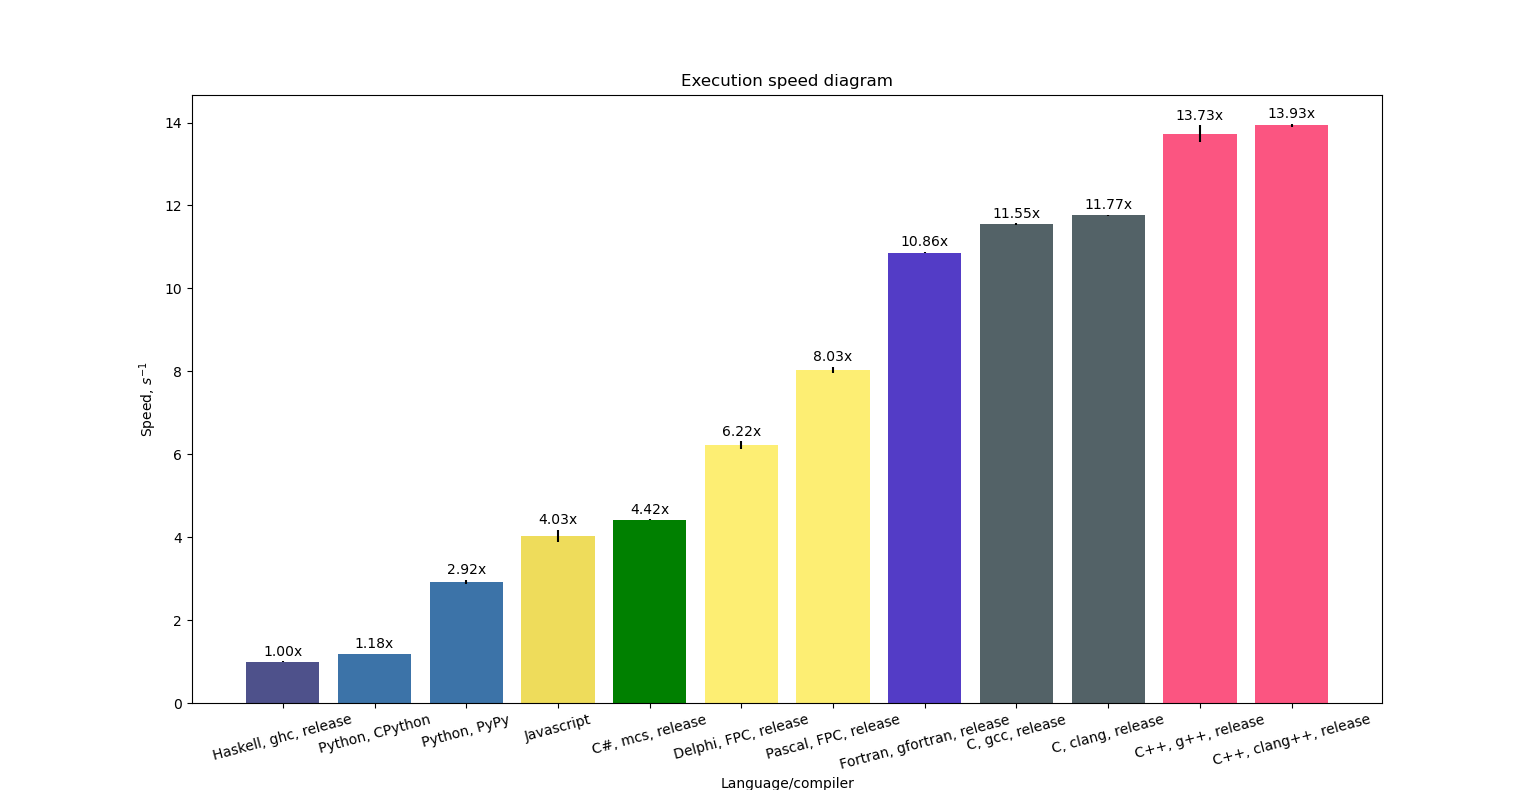
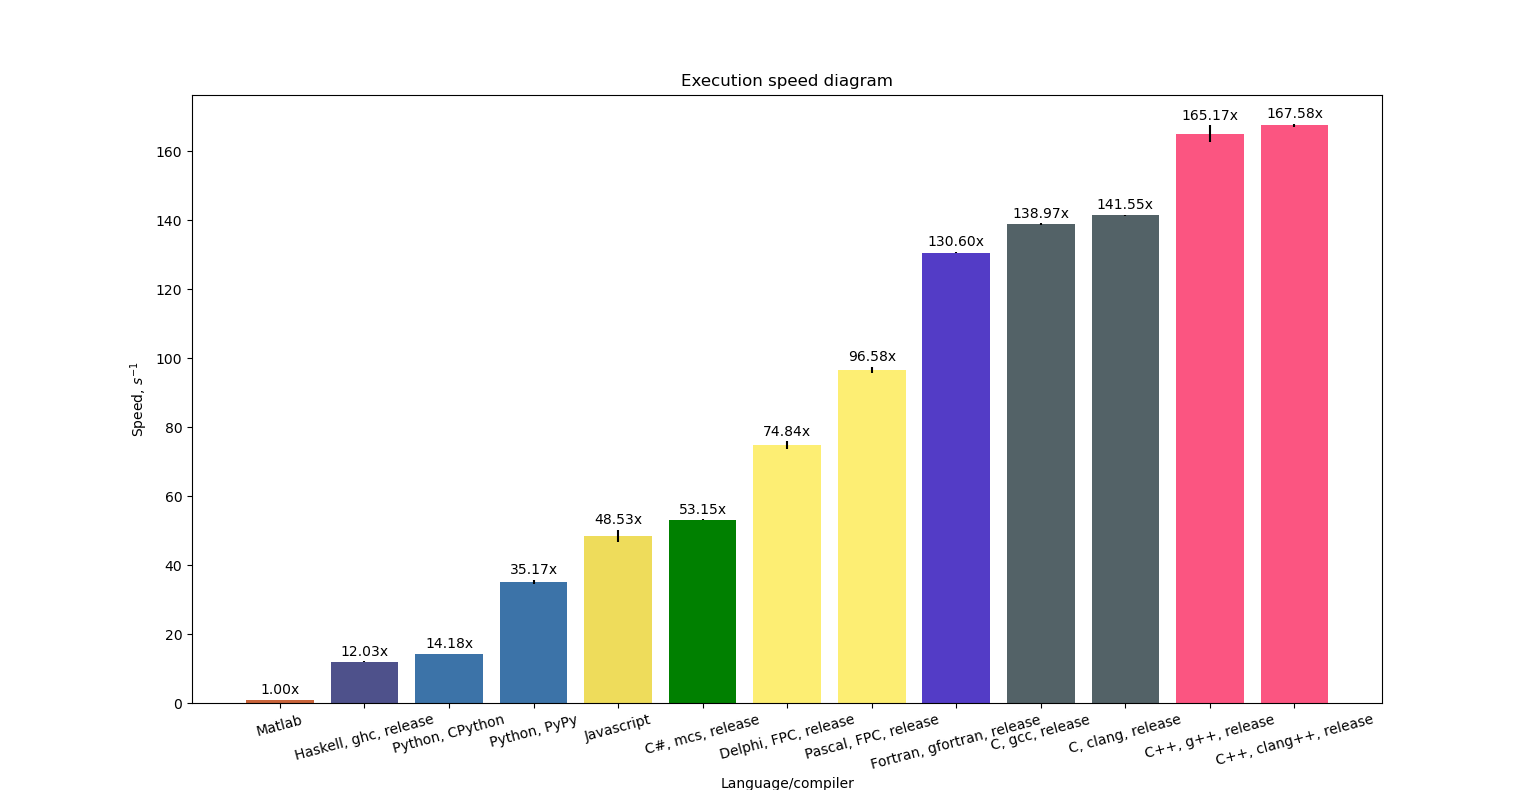
Data of non-present programs is now displayed

diff --git a/script/create_graphics.py b/script/create_graphics.py
@@ -105,64 +105,76 @@ class Graphics:
 
     def run(self):
         label_to_filename = dict()
-        if shutil.which("g++"): label_to_filename.update({
-            "C++, g++, debug" : "dijkstra_cpp_gcc_debug.txt",
-            "C++, g++, release" : "dijkstra_cpp_gcc_release.txt"
+        gpp_present = bool(shutil.which("g++"))
+        label_to_filename.update({
+            "C++, g++, debug" : ("dijkstra_cpp_gcc_debug.txt", gpp_present),
+            "C++, g++, release" : ("dijkstra_cpp_gcc_release.txt", gpp_present)
         })
-        if shutil.which("clang++"): label_to_filename.update({
-            "C++, clang++, debug" : "dijkstra_cpp_clang_debug.txt",
-            "C++, clang++, release" : "dijkstra_cpp_clang_release.txt",
+        clangpp_present = bool(shutil.which("clang++"))
+        label_to_filename.update({
+            "C++, clang++, debug" : ("dijkstra_cpp_clang_debug.txt", clangpp_present),
+            "C++, clang++, release" : ("dijkstra_cpp_clang_release.txt", clangpp_present),
         })
-        if shutil.which("gcc"): label_to_filename.update({
-            "C, gcc, debug" : "dijkstra_c_gcc_debug.txt",
-            "C, gcc, release" : "dijkstra_c_gcc_release.txt",
+        gcc_present = bool(shutil.which("gcc"))
+        label_to_filename.update({
+            "C, gcc, debug" : ("dijkstra_c_gcc_debug.txt", gcc_present),
+            "C, gcc, release" : ("dijkstra_c_gcc_release.txt", gcc_present),
         })
-        if shutil.which("clang"): label_to_filename.update({
-            "C, clang, debug" : "dijkstra_c_clang_debug.txt",
-            "C, clang, release" : "dijkstra_c_clang_release.txt",
+        clang_present = bool(shutil.which("clang"))
+        label_to_filename.update({
+            "C, clang, debug" : ("dijkstra_c_clang_debug.txt", clang_present),
+            "C, clang, release" : ("dijkstra_c_clang_release.txt", clang_present),
         })
-        if shutil.which("mcs"): label_to_filename.update({
-            "C#, mcs, debug" : "dijkstra_csharp_mcs_debug.txt",
-            "C#, mcs, release" : "dijkstra_csharp_mcs_release.txt",
+        mcs_present = bool(shutil.which("mcs"))
+        label_to_filename.update({
+            "C#, mcs, debug" : ("dijkstra_csharp_mcs_debug.txt", mcs_present),
+            "C#, mcs, release" : ("dijkstra_csharp_mcs_release.txt", mcs_present),
         })
-        if shutil.which("gfortran"): label_to_filename.update({
-            "Fortran, gfortran, debug" : "dijkstra_fortran_gfortran_debug.txt",
-            "Fortran, gfortran, release" : "dijkstra_fortran_gfortran_release.txt",
+        gfortran_present = bool(shutil.which("gfortran"))
+        label_to_filename.update({
+            "Fortran, gfortran, debug" : ("dijkstra_fortran_gfortran_debug.txt", gfortran_present),
+            "Fortran, gfortran, release" : ("dijkstra_fortran_gfortran_release.txt", gfortran_present),
         })
-        if shutil.which("fpc"): label_to_filename.update({
-            "Pascal, FPC, debug" : "dijkstra_pascal_fpc_debug.txt",
-            "Pascal, FPC, release" : "dijkstra_pascal_fpc_release.txt",
-            "Delphi, FPC, debug" : "dijkstra_delphi_fpc_debug.txt",
-            "Delphi, FPC, release" : "dijkstra_delphi_fpc_release.txt",
+        fpc_present = bool(shutil.which("fpc"))
+        label_to_filename.update({
+            "Pascal, FPC, debug" : ("dijkstra_pascal_fpc_debug.txt", fpc_present),
+            "Pascal, FPC, release" : ("dijkstra_pascal_fpc_release.txt", fpc_present),
+            "Delphi, FPC, debug" : ("dijkstra_delphi_fpc_debug.txt", fpc_present),
+            "Delphi, FPC, release" : ("dijkstra_delphi_fpc_release.txt", fpc_present),
         })
+        ghc_present = bool(shutil.which("ghc"))
         if shutil.which("ghc"): label_to_filename.update({
-            "Haskell, ghc, debug" : "dijkstra_haskell_ghc_debug.txt",
-            "Haskell, ghc, release" : "dijkstra_haskell_ghc_release.txt",
+            "Haskell, ghc, debug" : ("dijkstra_haskell_ghc_debug.txt", ghc_present),
+            "Haskell, ghc, release" : ("dijkstra_haskell_ghc_release.txt", ghc_present),
         })
-        if shutil.which("node"): label_to_filename.update({
-            "Javascript" : "dijkstra_js_node.txt"
+        label_to_filename.update({
+            "Javascript" : ("dijkstra_js_node.txt", bool(shutil.which("node")))
         })
-        if shutil.which("python"): label_to_filename.update({
-            "Python, CPython" : "dijkstra_python_cpython.txt"
+        label_to_filename.update({
+            "Python, CPython" : ("dijkstra_python_cpython.txt", bool(shutil.which("python")))
         })
-        if shutil.which("pypy3"): label_to_filename.update({
-            "Python, PyPy" : "dijkstra_python_pypy.txt"
+        label_to_filename.update({
+            "Python, PyPy" : ("dijkstra_python_pypy.txt", bool(shutil.which("pypy3")))
         })
-        if shutil.which("matlab"): label_to_filename.update({
-            "Matlab" : "dijkstra_matlab_matlab.txt"
+        label_to_filename.update({
+            "Matlab" : ("dijkstra_matlab_matlab.txt", bool(shutil.which("matlab")))
         })
-        if not self.no_extras and shutil.which("g++"): label_to_filename.update({
-            "C, g++, release" : "dijkstra_c_gcc_release_cpp.txt"
+        if not self.no_extras: label_to_filename.update({
+            "C, g++, release" : ("dijkstra_c_gcc_release_cpp.txt", gpp_present)
         })
-        if not self.no_extras and shutil.which("clang++"): label_to_filename.update({
-            "C, clang++, release" : "dijkstra_c_clang_release_cpp.txt"
+        if not self.no_extras: label_to_filename.update({
+            "C, clang++, release" : ("dijkstra_c_clang_release_cpp.txt", clangpp_present)
         })
         if self.no_debug:
             label_to_filename = { key: value for key, value in label_to_filename.items() if not "debug" in key }
 
         measurements = []
-        for label, filename in label_to_filename.items():
-            m = Measurement(label, filename)
+        for label, (filename, present) in label_to_filename.items():
+            if present:
+                m = Measurement(label, filename)
+            else:
+                try: m = Measurement(label, filename)
+                except: continue
             if m.mean <= self.faster_threshold and m.mean >= self.slower_threshold: measurements.append(m)
         if not self.reverse: measurements.sort(key=lambda m: m.mean)
         else: measurements.sort(key=lambda m: -m.mean)

diff --git a/README.md b/README.md
@@ -6,7 +6,7 @@ This repository contains implementations of Dijkstra algorithm in different prog
 All data is included, you are welcome to play with the configuration of the visualizer. This graph was produced with `../script/create_graphics.py --reverse --inverse --relative-slowest --no-debug --no-extras`.
 
 ### Goal
-The benchmark is a combined benchmark that strives to capture a performance of an **reasonably-written** and **balanced** program. Check out the [daughter project](https://github.com/kyrylo-sovailo/benchmark_masterrace) to see what happens with these constraints dropped.
+The benchmark is a combined benchmark that strives to capture a performance of a **reasonably-written** and **balanced** program. Check out the [daughter project](https://github.com/kyrylo-sovailo/benchmark_masterrace) to see what happens with these constraints dropped.
 
 A "reasonable" code is a code that:
  - Stays readable
@@ -18,7 +18,7 @@ A "reasonable" code is a code that:
  - Does not use multithreading
  - Does not assume any prior knowledge about the program input
 
-A "balanced" program is a program that does all types of operations in a close-to-real-life proportions. It includes:
+A "balanced" program is a program that does all types of operations that you'd expect a non-mathematical utility to do, in close-to-real-life proportions. It includes:
  - Logics
  - Floating-point operations
  - Memory management
@@ -45,6 +45,7 @@ GFortran             14.2.1
 Free Pascal Compiler 3.2.2
 MCS                  6.12.0.199, Target 4.5
 Python               3.12.9
+PyPy                 7.3.17, Target 3.10.14
 GHC                  9.8.4
 Node                 22.13.1
 Matlab               24.2.0.2833386 (R2024b) Update 4
